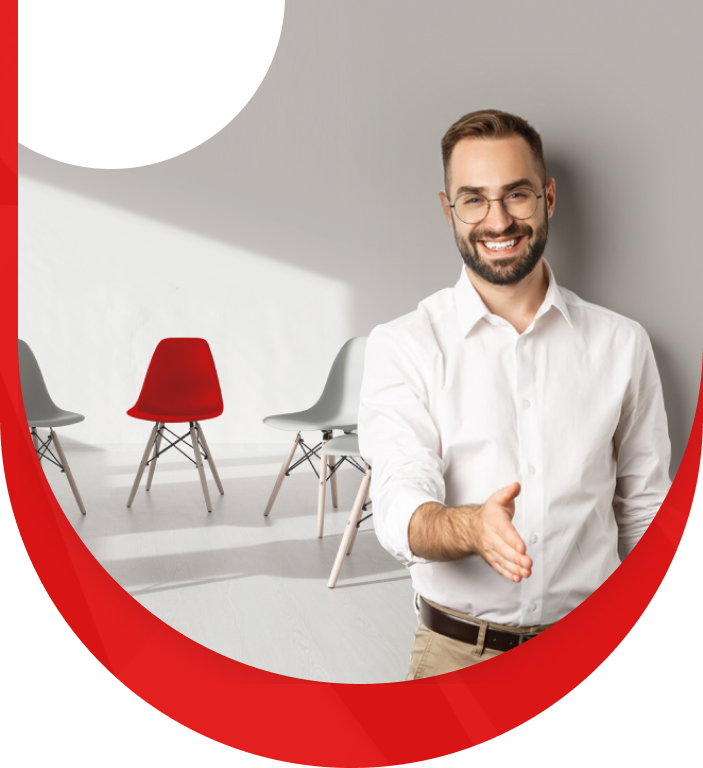
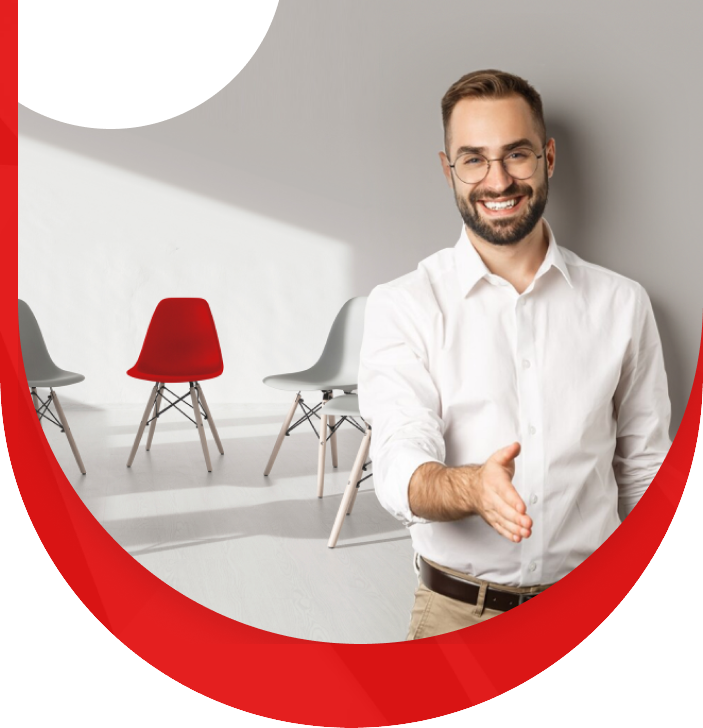
update styles

diff --git a/css/style.css b/css/style.css
@@ -193,6 +193,7 @@ p.text {
     font-size: 13px;
     font-weight: bold;
     line-height: 20.8px;
+    letter-spacing: 0.4px;
 }
 
 .header-panel {
@@ -212,7 +213,7 @@ p.text {
 .header-phone .absolute {
     position: absolute;
     top: -20px;
-    left: -50px;
+    left: -31px;
     width: 700px;
     z-index: -1;
 }
@@ -242,7 +243,7 @@ p.text {
     flex: 1 0 auto;
 }
 .main-section {
-    margin-top: 142px;
+    margin-top: 111px;
 }
 .main-section .wd {
     max-width: 672px;
@@ -324,24 +325,24 @@ p.text {
 }
 
 .delivery-section {
-    margin-top: 113px;
+    margin-top: 102px;
     background-image: url(../images/move-bg.png);
-    background-position: center left -250px;
-    background-size: 450px;
+    background-position: bottom 270px left -250px;
+    background-size: 500px;
     background-repeat: no-repeat;
 }
 .picker-section {
-    margin-top: 70px;
+    margin-top: 68px;
     background-image: url(../images/cart-bg.png);
-    background-position: center left -250px;
-    background-size: 450px;
+    background-position: bottom 170px left -175px;
+    background-size: 400px;
     background-repeat: no-repeat;
 }
 .vacancy-section {
     margin-top: 90px;
 }
 .market-section {
-    margin-top: 90px;
+    margin-top: 55px;
     background-image: url(../images/market-bg.png);
     background-position: bottom right;
     background-size: 541px;
@@ -388,7 +389,7 @@ p.text {
     margin-top: 0;
 }
 .accessible-section .container { 
-    margin-top: 70px;
+    margin-top: 110px;
 }
 .accessible-section .container .scroll-title {
     margin-bottom: 30px;
@@ -426,6 +427,10 @@ p.text {
     position: relative;
     z-index: 1;
 }
+.form-vacancy-section .primary-button {
+    width: 100%;
+    max-width: 314px;
+}
 
 
 .section-title {
@@ -436,7 +441,7 @@ p.text {
     font-size: 36px;
     text-transform: uppercase;
     border-radius: 0 100px 100px 0;
-    padding: 10px 20px;
+    padding: 10px 20px 10px 0;
     width: fit-content;
     position: relative;
     z-index: 1;
@@ -459,11 +464,11 @@ p.text {
     font-size: 32px;
     text-transform: uppercase;
     width: fit-content;
-    margin-top: 14px;
+    margin-top: 5px;
 }
 
 .section-box {
-    padding: 60px 120px 100px;
+    padding: 64px 120px 54px;
     background-image: url(../images/section-bg.png);
     background-repeat: no-repeat;
     background-size: cover;
@@ -475,14 +480,17 @@ p.text {
     position: relative;
     border-radius: 0 250px 250px 250px;
 }
+.section-box .container {
+    padding: 0;
+}
 .section-box.fire {
     background-image: url(../images/section-bg2.png);
 
 }
 .section-box .absolute {
-    bottom: -100px;
+    bottom: -96px;
     position: absolute;
-    right: 100px;
+    right: 56px;
     width: 600px;
     z-index: 2;
 }
@@ -495,6 +503,7 @@ p.text {
     font-size: 24px;
     color: var(--color-white);
     max-width: 672px;
+    line-height: 1.4;
 }
 .fire .section-box-text {
     max-width: 800px;
@@ -509,7 +518,7 @@ p.text {
     color: var(--color-white);
     display: flex;
     align-items: center;
-    margin-bottom: 21px;
+    margin-bottom: 24px;
 }
 .section-box-list__item::before {
     content: '';
@@ -535,7 +544,7 @@ p.text {
     justify-content: space-between;
     align-items: center;
     padding: 14px 19px 12px 0;
-    margin-top: 46px;
+    margin-top: 40px;
 }
 .fire .section-box-info {
     max-width: 840px;
@@ -600,7 +609,10 @@ p.text {
     gap: 0px 20px;
     /* overflow-x: scroll; */
     width: 100%;
-    margin-bottom: 60px;
+    margin-bottom: 50px;
+}
+.scroll-wrapper.low {
+    margin-bottom: 40px;
 }
 
 .scroll-vacancy {
@@ -758,6 +770,7 @@ p.text {
     height: fit-content;
     width: 100%;
     max-width: 555px;
+    margin: 90px 0 0 auto;
 }
 .show-block .text {
     font-family: Arial, Helvetica, sans-serif;
@@ -802,6 +815,7 @@ p.text {
     font-size: 18px;
     color: var(--color-black);
     margin-top: 30px;
+    text-transform: uppercase;
 }
 
 .form-vacancy-absolute {
@@ -850,12 +864,13 @@ p.text {
 .top-bg {
     position: absolute;
     top: 0;
-    right: 0;
+    right: 50px;
     width: 670px;
 }
 .bg-pen-block {
     position: relative;
-    left: -450px;
+    left: -420px;
+    height: 117px;
 }
 .documents-list .market-point {
     margin-top: 14px;
@@ -1156,7 +1171,7 @@ p.text {
    
 }
 .swiper.swiper-review {
-    padding-top: 170px;
+    padding-top: 130px;
 }
 .swiper-review .preview {
     width: 125px;
@@ -1179,7 +1194,7 @@ p.text {
     font-family: Arial, Helvetica, sans-serif;
     font-size: 16px;
     color: #626262;
-    min-height: 144px;
+    min-height: 210px;
 }
 
 .swiper-review .swiper-slide .rating {
@@ -1358,7 +1373,7 @@ p.text {
     background-repeat: no-repeat;
     background-size: cover;
     background-position: center center;
-    border-bottom: 4px solid var(--color-white);
+    border-bottom: 6px solid var(--color-white);
 }
 
 .modal.bg-form {
@@ -1426,6 +1441,9 @@ p.text {
     letter-spacing: 2px;
     line-height: 36px;
 }
+.modal h3.title.light.sm {
+    font-size: 20px;
+}
 .modal .back-text {
     margin: 0 0 25px;
 }
@@ -1434,6 +1452,11 @@ p.text {
     font-size: 20px;
     text-align: center;
     width: 100%;
+    text-transform: none;
+}
+.modal .title.sm {
+    font-size: 24px;
+    text-transform: none;
 }
 .modal .social-links-list {
     width: 208px;
@@ -1464,6 +1487,20 @@ p.text {
 }
 .m-auto {
     margin: 0 auto;
+}
+.ta-right {
+    text-align: right;
+    margin-left: 526px;
+}
+.large-gradient {
+    line-height: 0px;
+    font-size: 96px;
+    font-family: var(--font-family-primary);
+    font-weight: bold;
+    font-style: italic;
+    background: linear-gradient(180deg, var(--color-red) 10%, var(--color-black));
+    -webkit-background-clip: text;
+    -webkit-text-fill-color: transparent;
 }
 
 .hide-scrollbar::-webkit-scrollbar {

diff --git a/index.html b/index.html
@@ -163,7 +163,7 @@
                             <div class="top-title">партнеры</div>
                             <div class="title">магазины</div>
                         </div>
-                        <div class="scroll-wrapper hide-scrollbar">
+                        <div class="scroll-wrapper hide-scrollbar low">
                             <div class="scroll-store">
                                 <img src="images/market/1.png" alt="">
                             </div>
@@ -255,7 +255,7 @@
                             <div class="top-title">партнеры</div>
                             <div class="title">магазины</div>
                         </div>
-                        <div class="scroll-wrapper hide-scrollbar">
+                        <div class="scroll-wrapper hide-scrollbar low">
                             <div class="scroll-store">
                                 <img src="images/market/11.jpg" alt="">
                             </div>
@@ -322,7 +322,7 @@
                 </section>
                 <section class="market-section">
                     <div class="container">
-                        <h3 class="title">попадайте<br>на вакантные места к 10+<br><span class="c-red">гигантам рынка</span></h3>
+                        <h3 class="title">попадайте<br>на вакантные места к <span class="large-gradient"> 10+</span><br><span class="c-red ta-right">гигантам рынка</span></h3>
                         <div class="subtitle">Будьте уверены в стабильности, ведь вас ждет работа в крупной сети:</div>
                         <div class="market-flex">
                             <div class="market__item">
@@ -457,8 +457,8 @@
                         <div class="documents-list">
                             <div class="market-title">Понадобится минимальный пакет документов:</div>
                             <div class="market-point">Паспорт РФ</div>
-                            <div class="market-point">Медицинская книжка (помощь в получении).</div>
-                            <div class="market-point">Документ о регистрации в РФ (патент или вид на жительство).</div>
+                            <div class="market-point"><span class="fw-bold">Медицинская книжка (помощь в получении).</span></div>
+                            <div class="market-point"><span class="fw-bold">Документ о регистрации в РФ (патент или вид на жительство).</span></div>
                             <div class="market-point">СНИЛС</div>
                             <div class="market-point">ИНН</div>
                             <div class="market-point">ДМС (для граждан других стран).</div>
@@ -572,7 +572,7 @@
                             <input class="primary-input" type="text" value="" placeholder="Ваше имя">
                             <input class="primary-input" type="text" value="" placeholder="+7 (___) ___-__-__">
                             <input class="primary-input" type="email" value="" placeholder="Ваш e-mail">
-                            <button class="primary-button m-auto">Выбрать вакансию</button>
+                            <button class="primary-button m-auto">Заполните анкету</button>
                         </div>                        
                     </div>
                     <img src="images/form-bg-time.png" alt="" class="form-vacancy-absolute">
@@ -943,7 +943,7 @@
                             <input class="primary-input" type="text" value="" placeholder="Ваше имя">
                             <input class="primary-input" type="text" value="" placeholder="+7 (___) ___-__-__">
                             <input class="primary-input" type="email" value="" placeholder="Ваш e-mail">
-                            <button class="primary-button m-auto">Выбрать вакансию</button>
+                            <button class="primary-button m-auto">Обратиться</button>
                         </div>                        
                     </div>
                     <img src="images/form-bg3.png" alt="" class="form-vacancy-absolute top">
@@ -1030,10 +1030,10 @@
                     </button>
                     <div class="modal-content">
                         <div class="back-text sm">Спасибо, ваша заявка<br> отправлена!</div>
-                        <h3 class="title">Долго ждать?</h3>
+                        <h3 class="title sm">Долго ждать?</h3>
                         <h3 class="title light">Наберите нас прямо сейчас</h3>
                         <a href="tel:+"><h3 class="title">+ 0 (000) 000 00 00</h3></a>
-                        <h3 class="title light">Или добавляйтесь в мессенджер</h3>
+                        <h3 class="title light sm">Или добавляйтесь в мессенджер</h3>
                         <div class="social-links-list">
                             <a href="#" class="social-links-list__item"><img src="images/icons/whatsapp.svg" alt=""></a>
                             <a href="#" class="social-links-list__item"><img src="images/icons/viber.svg" alt=""></a>
